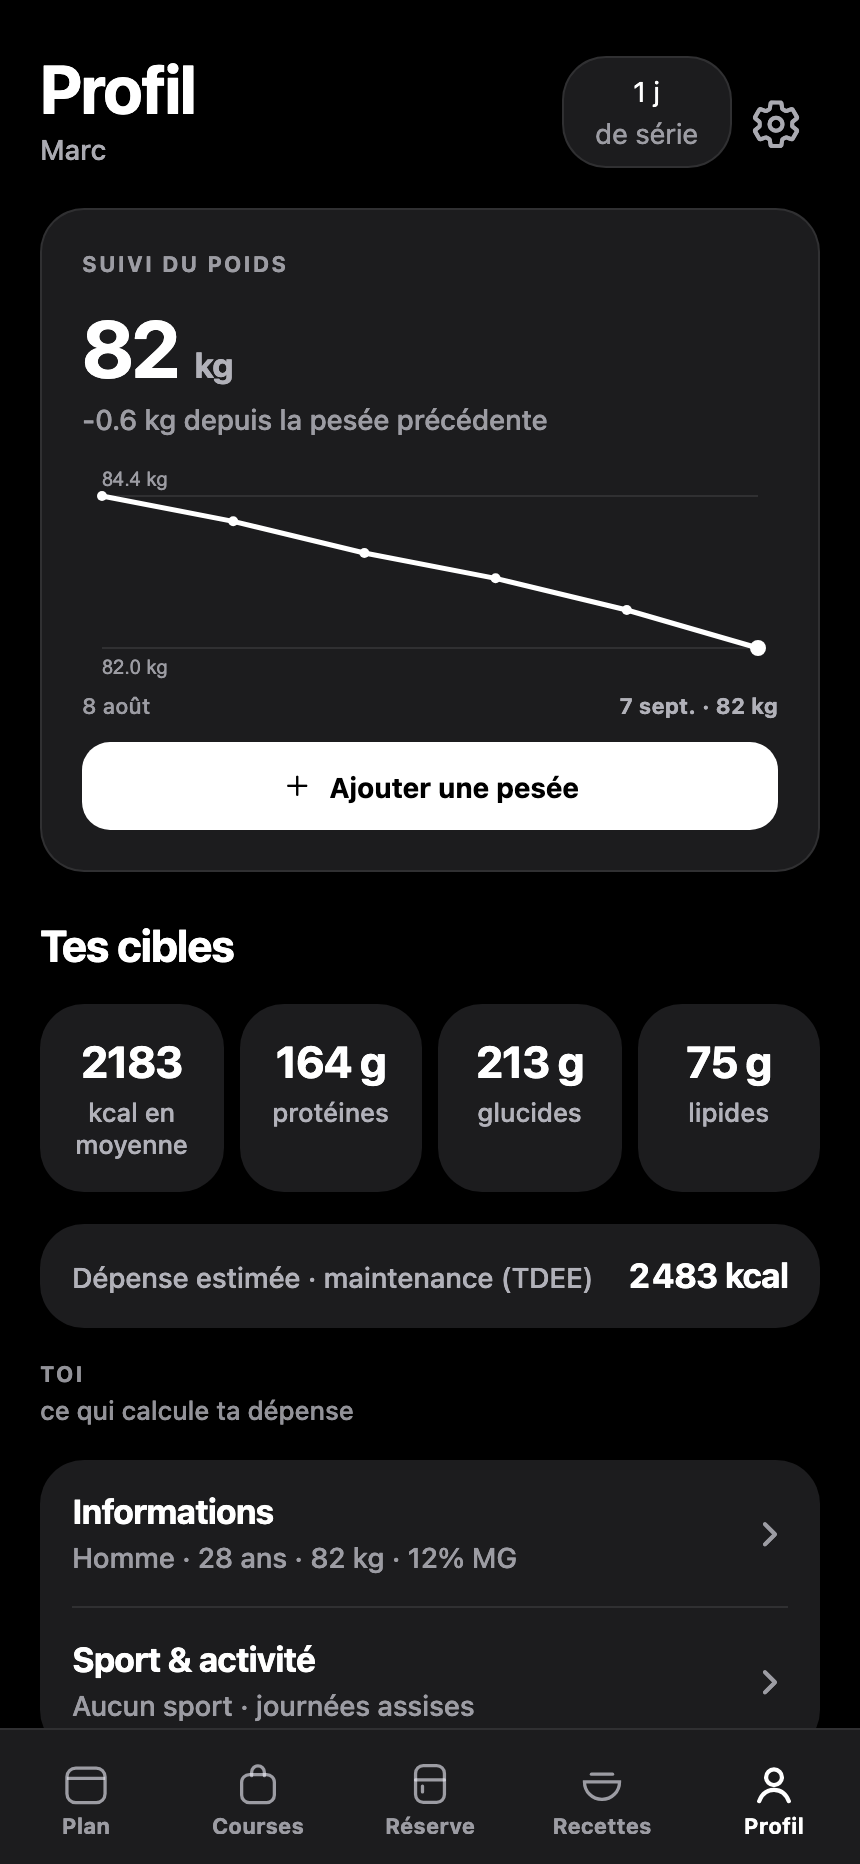
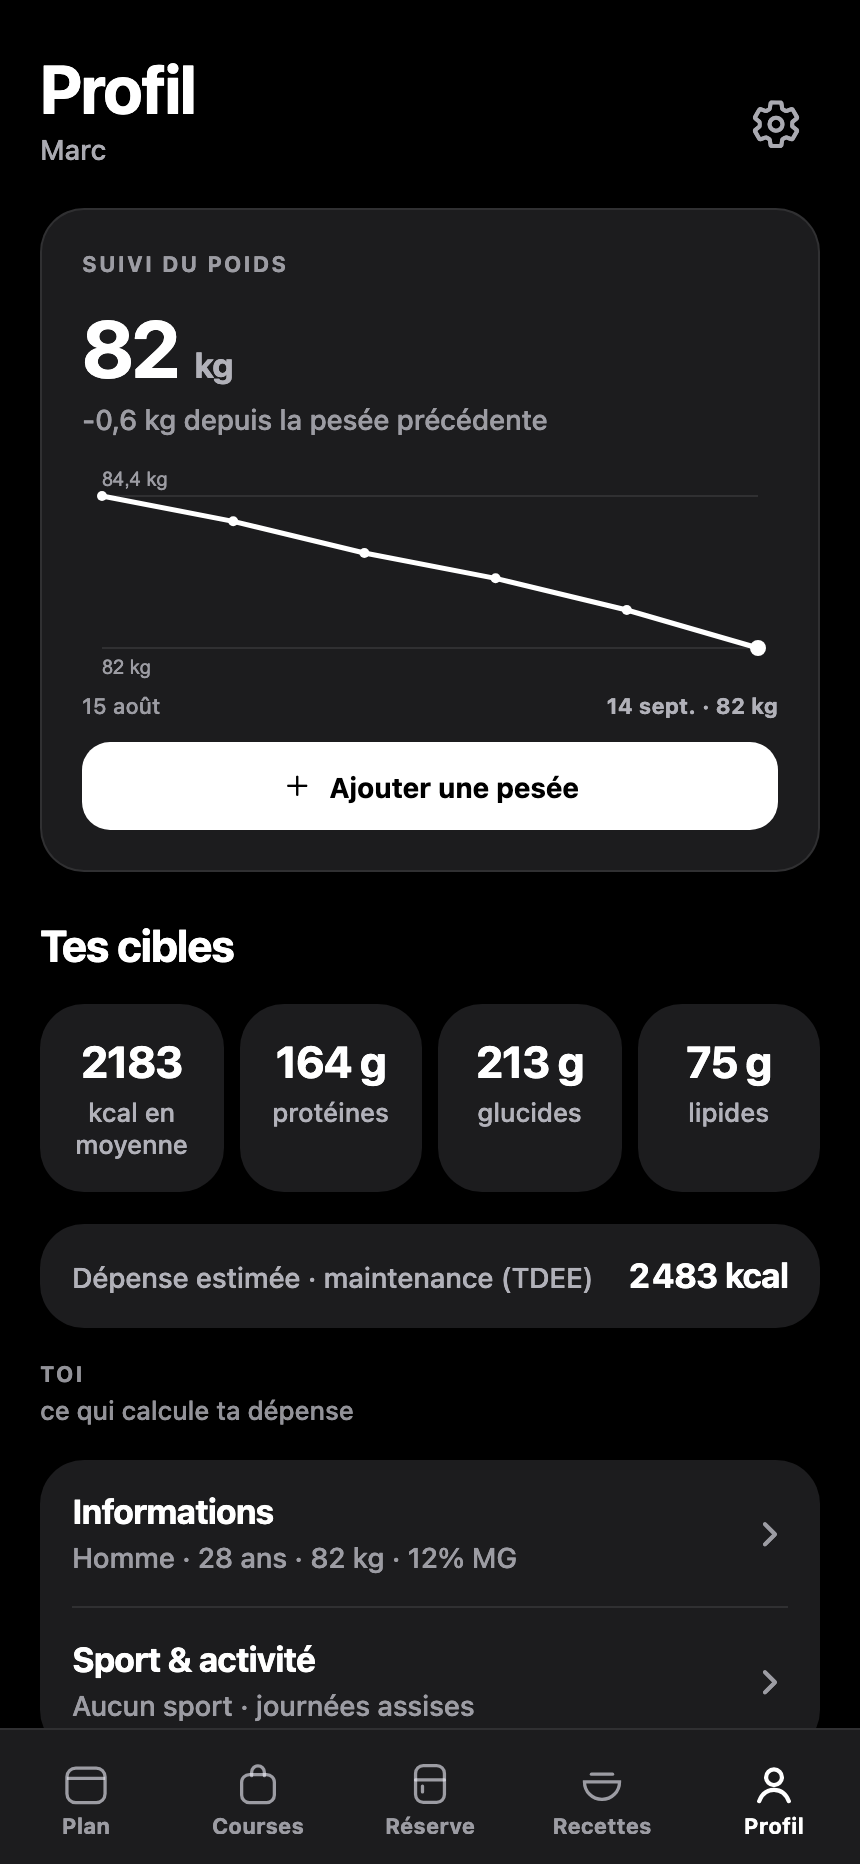
fix(accueil) : images du carrousel sans la série, et le harnais qui ne passait plus l'inscription
Les diapos Plan et Profil du carrousel d'accueil (clair + sombre) étaient des
captures montrant la pastille « 1 j de série ». Les 8 images sont regénérées
par test/intro-captures.mjs, avec trois ajustements dans une copie locale :
session locale factice (aucun compte créé en production), horloge démarrant
un lundi 9 h 30, pesée du jour posée explicitement.

test/_harness.mjs coche désormais « Omnivore » à l'étape des préférences :
depuis #325 le régime est obligatoire, et le harnais restait bloqué là.

Changed region(s): [[0.6349, 0.0311, 0.8465, 0.0933], [0.0907, 0.3423, 0.1814, 0.4045], [0.6953, 0.3734, 0.7256, 0.4045]]

diff --git a/kyroz-app/AGENTS.md b/kyroz-app/AGENTS.md
@@ -1663,6 +1663,19 @@ produit en suspens — il ne reste qu'à coder.
   textes servis (Kyroz+, consentement, suppression de compte, politique §2, CGU §3).
   ⚠ **La north star n'en dépendait pas** — elle compte les jours avec un repas cuisiné
   (`meal_cooked`), la série comptait les ouvertures du Plan (METRICS.md §2, réécrit).
+  🔴 **LA SURFACE QU'AUCUN `grep` NE TROUVAIT : LE CARROUSEL D'ACCUEIL.** Ses images
+  (`assets/intro/`, clair + sombre) sont des CAPTURES de l'app — la diapo du Plan et
+  celle du Profil montraient la pastille « 1 j de série ». Vu en vérifiant à l'écran, pas
+  en cherchant dans le code. Les 8 images sont regénérées (`test/intro-captures.mjs`).
+  ⚠ Trois écarts avec le script du dépôt, faits dans une COPIE locale et non versionnés :
+  une session locale factice au lieu d'une connexion invité (**aucun compte créé en
+  production** — le serveur du worktree pointe vers une URL Supabase factice), une horloge
+  qui démarre un **lundi 9 h 30** (générées un samedi soir, les diapos disaient « Bonsoir »,
+  « Jour 6 » et « ton plan avait déjà commencé »), et la **pesée du jour** posée
+  explicitement (l'app ne la pose plus quand le journal est réécrit après l'inscription :
+  l'en-tête disait 82 kg au-dessus d'une courbe finissant à 82,6).
+  ➡ Au passage, **`test/_harness.mjs` était cassé depuis le merge de #325** (le régime est
+  devenu obligatoire à l'inscription, le harnais n'en cochait aucun) : il coche « Omnivore ».
   ⚠ **Ce que ça ne touche PAS** : la « série de semaines en déficit » de la pause à la
   maintenance (`safety.ts`, `deficit_weeks`) et la « série datée » des rappels
   (`reminder.ts::serieQuotidienne`) — même mot, autres objets.
